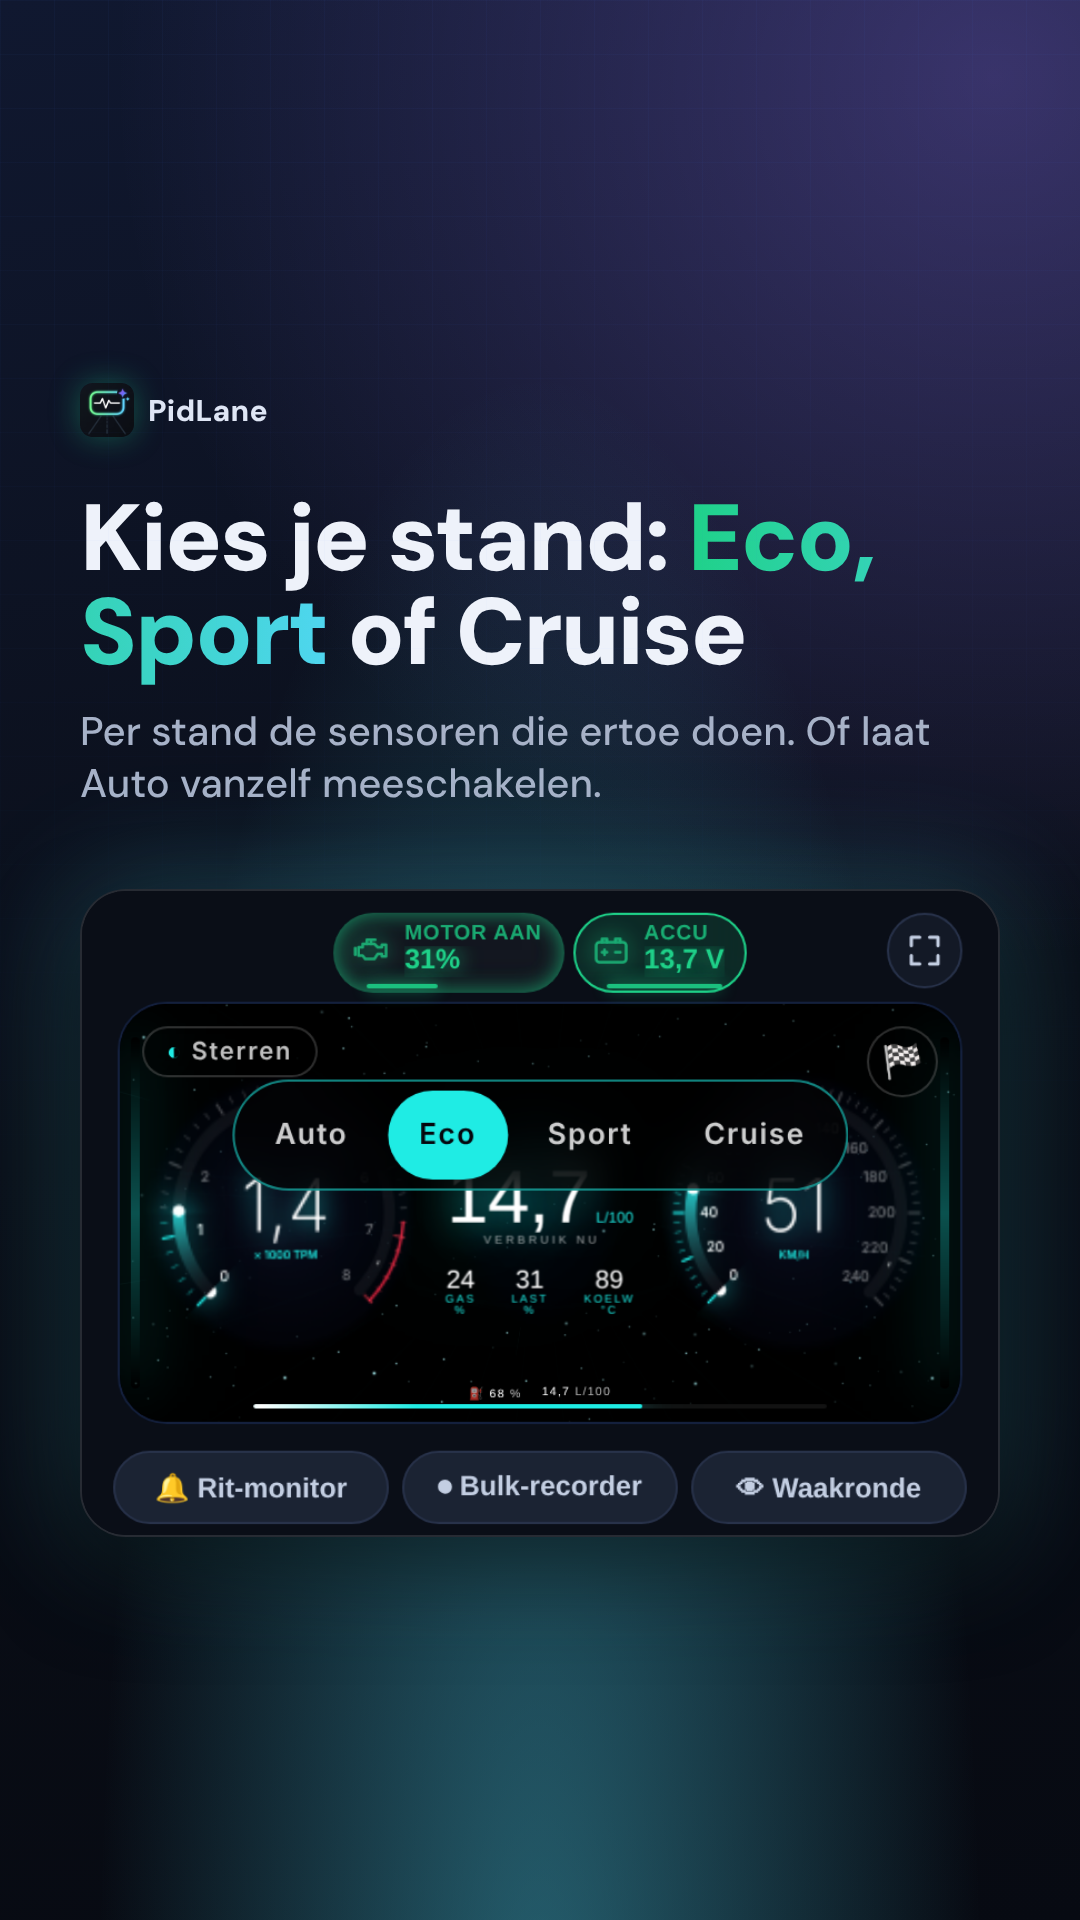
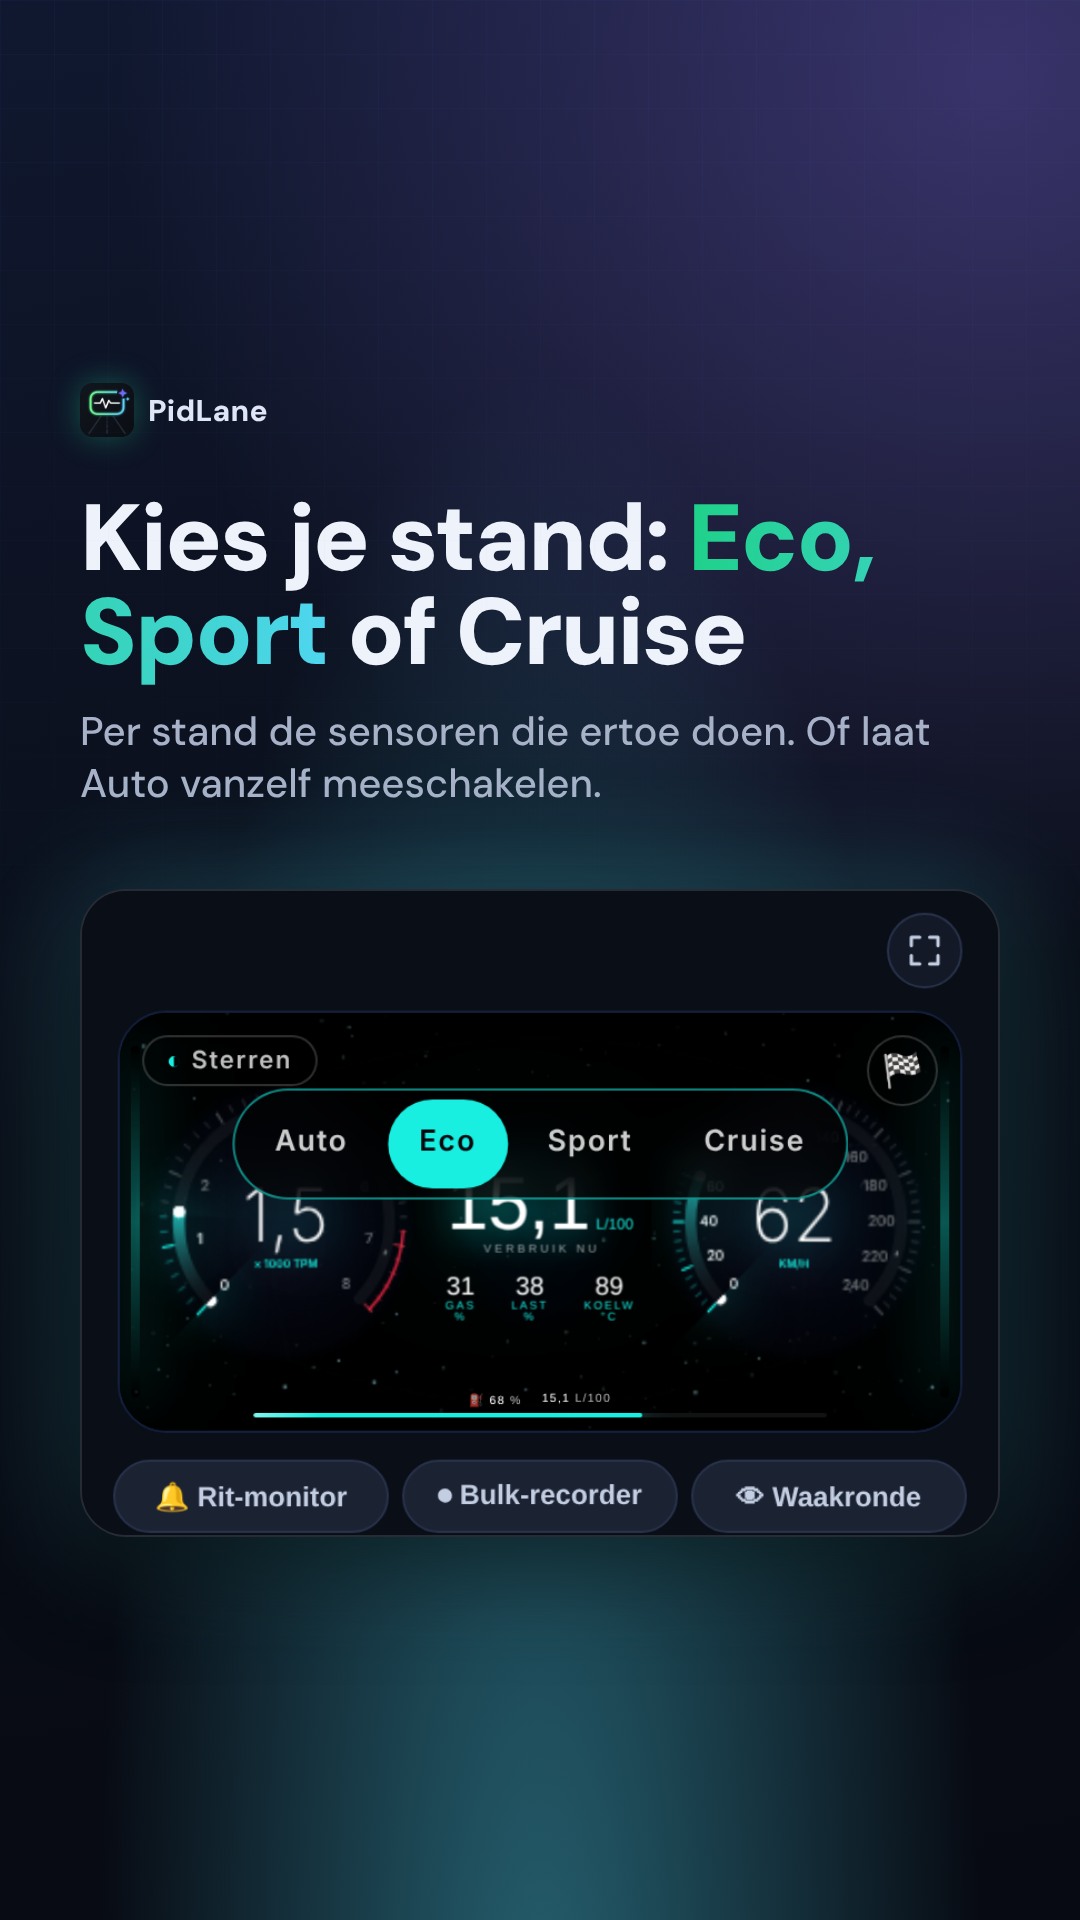
Play Store: schermafdrukken opnieuw opgenomen uit de huidige app; kopieerstap in LEESMIJ gerepareerd
Claude-Session: https://claude.ai/code/session_01UqhcqoJv895NeWBr2GRvpm

diff --git a/marketing/play/LEESMIJ.md b/marketing/play/LEESMIJ.md
@@ -5,7 +5,8 @@ plek). Dit is alleen hoe de beelden gemaakt worden.
 
 ```
 node marketing/meekijken/opname.js   # meekijkschermen (twee toestellen, nep-server)
-cp marketing/meekijken/opname/{delen,check}/0000.png marketing/play/rauw/
+cp marketing/meekijken/opname/delen/0000.png marketing/play/rauw/delen.png
+cp marketing/meekijken/opname/check/0000.png marketing/play/rauw/check.png
 cp marketing/meekijken/opname/meekijken/0050.png marketing/play/rauw/meekijken.png
 node marketing/play/opname.js        # de rest, in demomodus → rauw/
 node marketing/play/render.js        # kop en lijst eromheen → uit/
